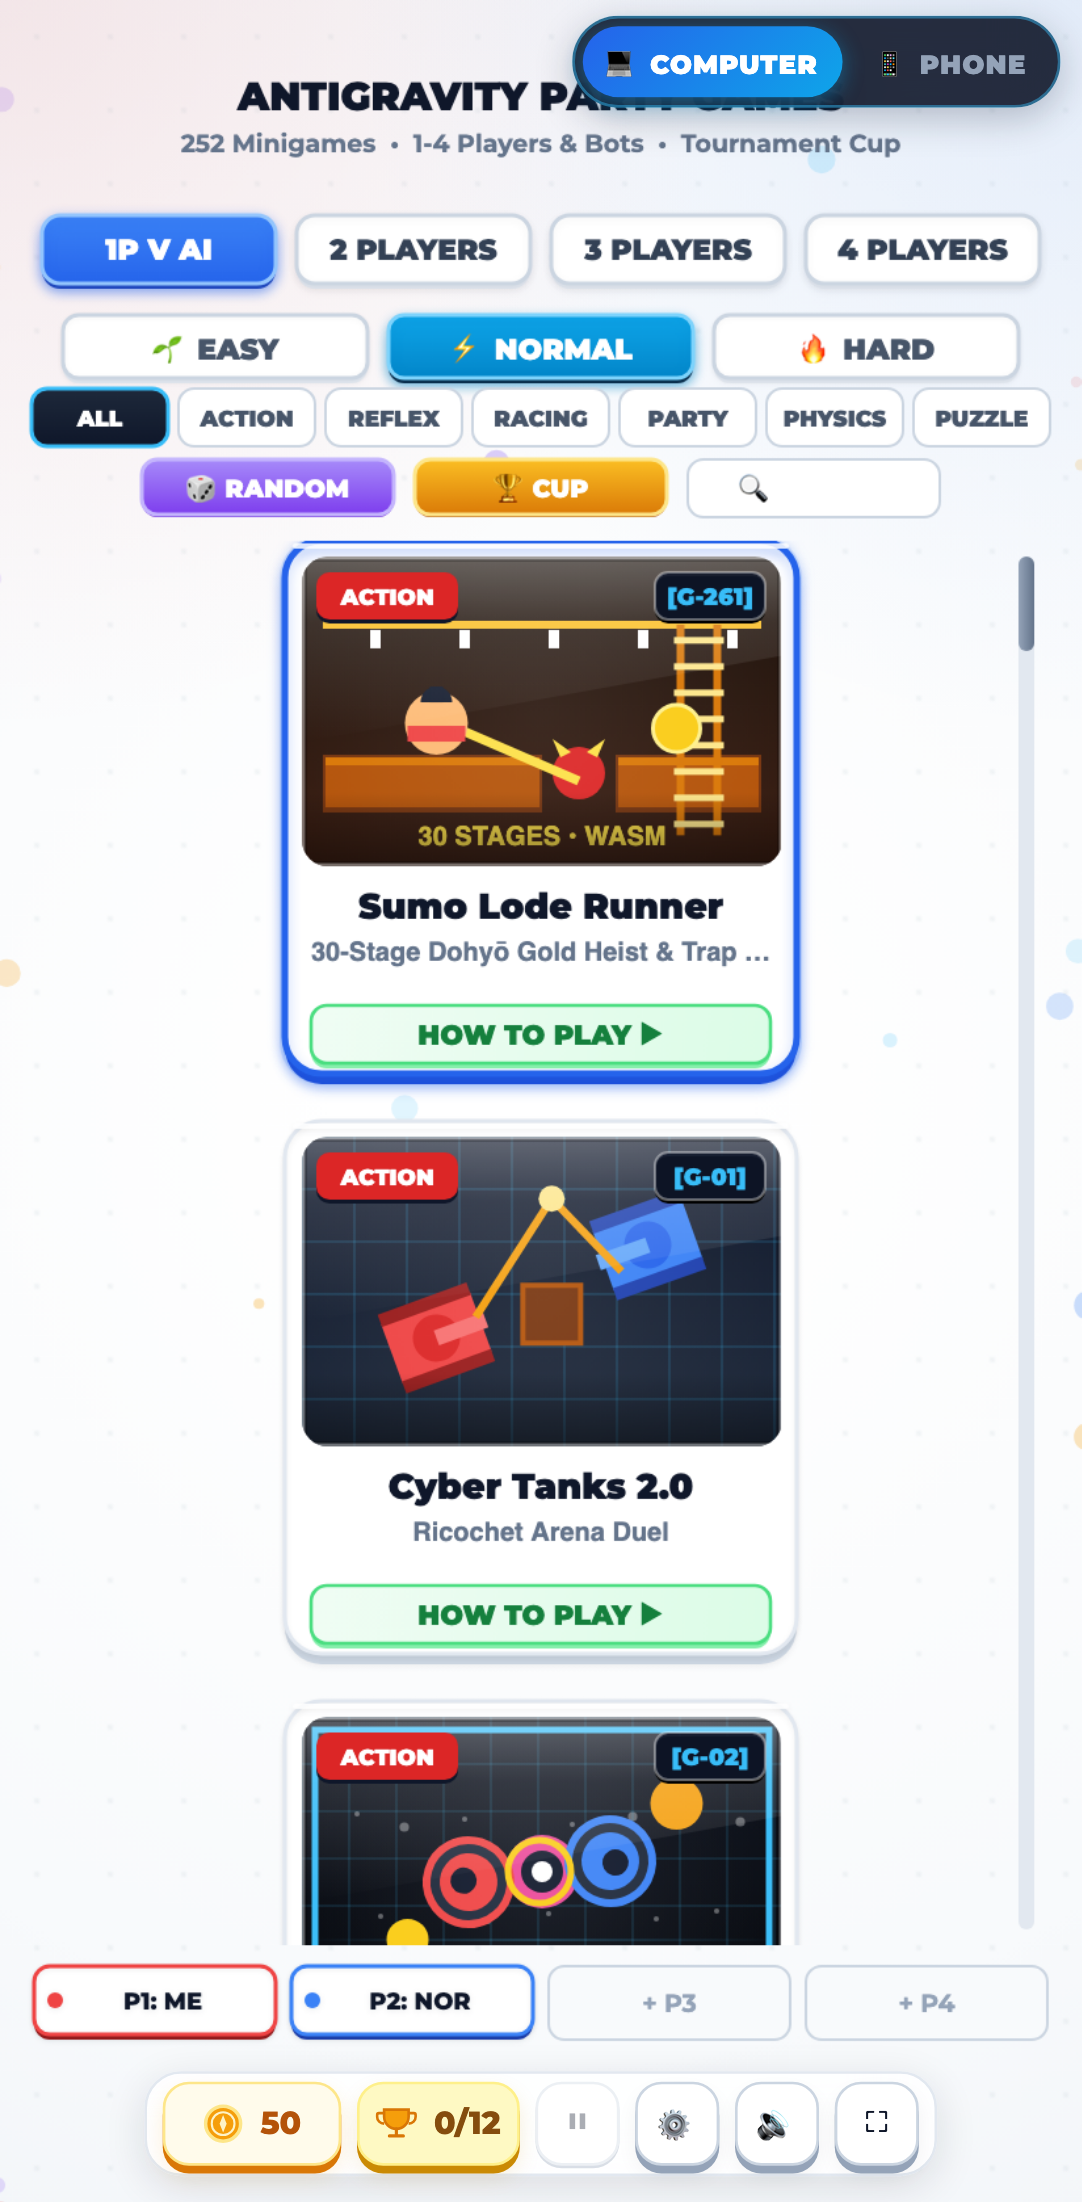
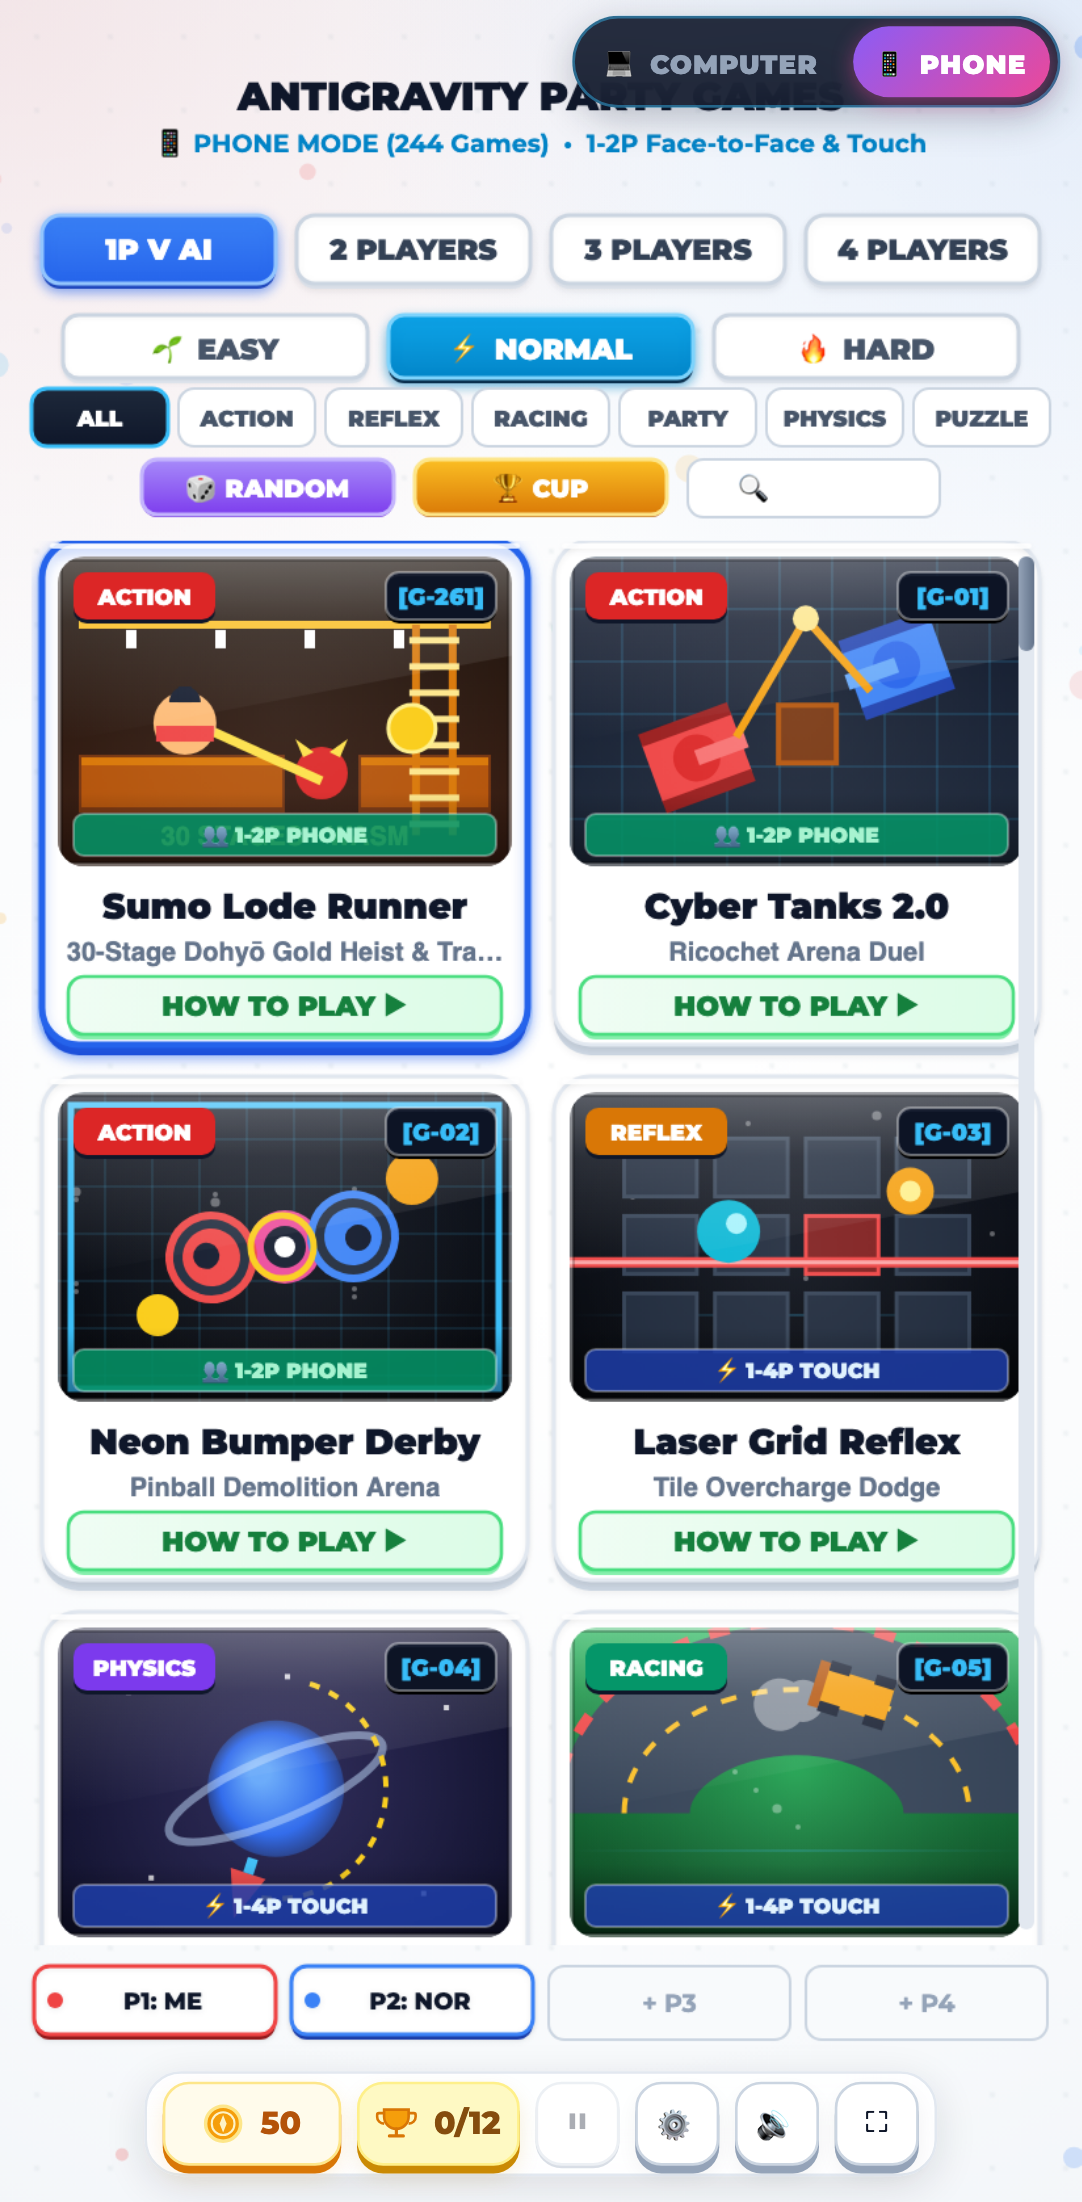
Auto-sync: updated mobile-test-artifacts/pixel7-1-lobby-initial.png,mobile-test-artifacts/pixel7-2-lobby-phone-mode.png,mobile-test-artifacts/pixel7-3-tanks-2p-ingame.png,mobile-test-artifacts/pixel7-4-sumo-2p-ingame.png,mobile-test-artifacts/pixel7-5-microgp-4p-corners.png,mobile-test-artifacts/pix

diff --git a/src/games/SumoLodeRunnerGame.ts b/src/games/SumoLodeRunnerGame.ts
@@ -296,9 +296,9 @@ export const SUMO_LODE_LEVELS: LevelBlueprint[] = [
       '####H@@@@@@@HS@@@@@@@H######',
       '....H.......H........H......',
       '....H..$....H...E..$.H......',
-      '....#######.H.########......',
+      '....#######.H.#######H......',
       '....H.......H........H......',
-      '....H..###..H...###..H......',
+      '....H#######H########H......',
       '....H..#$#..H...#$#..H......',
       '....H..#X#..H...#X#..H......',
       '..$.H.......H........H..$...',
@@ -1375,18 +1375,27 @@ const BFS_DIRS: readonly { dx: number; dy: number }[] = [
 ];
 
 export class SumoLodeRunnerGame extends BaseGame {
-  // Multi-round / 30-level campaign flags so GameManager does not cut off at 65s
+  // Multi-round / 40-level campaign flags so GameManager does not cut off at 65s
   public isMultiRound: boolean = true;
   public isNoTimeLimit: boolean = false;
 
-  // Current Level (0 = Interactive Tutorial Dojo, 1..30 = Campaign Stages)
+  // Current Level (0 = Interactive Tutorial Dojo, 1..40 = Campaign Stages)
   public currentLevel: number = 0;
   public maxUnlockedLevel: number = 1;
   public teamLives: number = 5;
+  // 1-Player Solo Puzzle Mode (when true & 1 human player is active, disables the CPU partner so you can solve puzzles stress-free)
+  public soloMode: boolean = true;
   private levelClearBannerTimer: number = 0;
   private stageHintTimer: number = 0;
   private escapeRevealed: boolean = false;
   private escapeFlashTimer: number = 0;
+
+  // Dynamic Procedural Soundtrack State (inspired by Lode Runner, Super Mario Bros. & Legend of Zelda)
+  public musicEnabled: boolean = true;
+  private bgmStepIndex: number = 0;
+  private bgmStepTimer: number = 0;
+  private bgmMood: 'normal' | 'positive' | 'negative' | 'escape' = 'normal';
+  private bgmMoodTimer: number = 0;
 
   // Dynamic Viewport Dimensions for Resize-Safe Mouse Hitboxes
   private lastWidth: number = 960;
@@ -1426,7 +1435,7 @@ export class SumoLodeRunnerGame extends BaseGame {
     timer: 0
   };
 
-  // Direct keyboard listener for dedicated Dig Left (Q/Z), Dig Right (E/X/C), and Level Select ([ / ] / T / R)
+  // Direct keyboard listener for dedicated Dig Left (Q/Z), Dig Right (E/X/C), and Level Select ([ / ] / T / R / B / M)
   private rawKeys: Set<string> = new Set();
   private justRawKeys: Set<string> = new Set();
   private keyDownHandler: ((e: KeyboardEvent) => void) | null = null;
@@ -1437,7 +1446,11 @@ export class SumoLodeRunnerGame extends BaseGame {
   private hudHitboxes: { id: string; x: number; y: number; w: number; h: number; action: () => void }[] = [];
 
   public setStartingLevel(level: number): void {
-    this.currentLevel = Math.max(0, Math.min(30, Math.floor(level)));
+    this.currentLevel = Math.max(0, Math.min(SUMO_LODE_LEVELS.length, Math.floor(level)));
+  }
+
+  public setSoloMode(solo: boolean): void {
+    this.soloMode = solo;
   }
 
   public getLevelBlueprint(levelNum: number = this.currentLevel): LevelBlueprint {
@@ -1475,7 +1488,7 @@ export class SumoLodeRunnerGame extends BaseGame {
       const saved = localStorage.getItem('antigravity_sumo_lode_unlocked');
       if (saved) {
         const parsed = parseInt(saved, 10);
-        if (!isNaN(parsed) && parsed >= 1 && parsed <= 30) {
+        if (!isNaN(parsed) && parsed >= 1 && parsed <= SUMO_LODE_LEVELS.length) {
           this.maxUnlockedLevel = parsed;
         }
       }
@@ -1534,19 +1547,15 @@ export class SumoLodeRunnerGame extends BaseGame {
     super.destroy();
   }
 
-  public reset(width: number, height: number): void {
-    this.lastWidth = width;
-    this.lastHeight = height;
-    this.initWasmKernel();
-    this.activeMutator = { ...DEFAULT_MUTATOR };
-    this.particles.clear();
-    this.isFinished = false;
-    this.roundTimer = 180;
-    this.teamLives = 5;
+  private spawnActiveRunners(): void {
     this.runners.clear();
-
     const active = this.getActivePlayers();
-    active.forEach((p) => {
+    const humanCount = active.filter((p) => p.type === 'human').length;
+    // In 1P Solo Mode (when only 1 human player is playing), filter out CPU bots so the player can solve puzzles stress-free!
+    const filtered = this.soloMode && humanCount === 1 ? active.filter((p) => p.type === 'human') : active;
+    const list = filtered.length > 0 ? filtered : active;
+
+    list.forEach((p) => {
       this.runners.set(p.id, {
         id: p.id,
         x: 10,
@@ -1568,12 +1577,23 @@ export class SumoLodeRunnerGame extends BaseGame {
         dropFromRopeCooldown: 0
       });
     });
+  }
 
+  public reset(width: number, height: number): void {
+    this.lastWidth = width;
+    this.lastHeight = height;
+    this.initWasmKernel();
+    this.activeMutator = { ...DEFAULT_MUTATOR };
+    this.particles.clear();
+    this.isFinished = false;
+    this.roundTimer = 180;
+    this.teamLives = 5;
+    this.spawnActiveRunners();
     this.loadLevel(this.currentLevel);
   }
 
   public loadLevel(levelNum: number): void {
-    this.currentLevel = Math.max(0, Math.min(30, levelNum));
+    this.currentLevel = Math.max(0, Math.min(SUMO_LODE_LEVELS.length, levelNum));
     const bp = this.getLevelBlueprint(this.currentLevel);
 
     this.gridMem.fill(TILE_EMPTY);
@@ -1589,6 +1609,8 @@ export class SumoLodeRunnerGame extends BaseGame {
     this.teamLives = 5; // Fresh 5 lives per stage (infinite in Stage 0 Tutorial)
     this.roundTimer = 180; // Fresh 3-minute timer per stage
     this.tileCacheDirty = true;
+    this.bgmMood = 'normal';
+    this.bgmMoodTimer = 0;
 
     const pSpawns: { col: number; row: number }[] = [];
     const qSpawns: { col: number; row: number }[] = [];

diff --git a/src/core/GameManager.ts b/src/core/GameManager.ts
@@ -2588,20 +2588,17 @@ export function detectInitialDeviceMode(): DevicePlatformMode {
   if (modeParam === 'phone' || modeParam === 'mobile') return 'phone';
   if (modeParam === 'computer' || modeParam === 'desktop') return 'computer';
 
-  // 2. Touch capability & pointer characteristics
-  const hasTouch = (typeof navigator !== 'undefined' && navigator.maxTouchPoints > 0) || ('ontouchstart' in window);
-  const isCoarse = typeof window.matchMedia === 'function' && window.matchMedia('(pointer: coarse)').matches;
-  const hasNoHover = typeof window.matchMedia === 'function' && window.matchMedia('(hover: none)').matches;
-
-  // 3. User-Agent mobile heuristics (Android, iPhone, iPad, iPod, etc.)
+  // 2. User-Agent mobile heuristics (covers Android, Pixel, iPhone, iPad, iPod, etc.)
   const ua = (typeof navigator !== 'undefined' && navigator.userAgent) || '';
   const isMobileUA = /Android|iPhone|iPad|iPod|Mobile|Silk|BlackBerry|Opera Mini/i.test(ua);
 
-  // 4. Viewport constraint
-  const minDim = Math.min(window.innerWidth || 1024, window.innerHeight || 768);
-  const isCompact = minDim <= 840;
+  // 3. Pointer & screen characteristics
+  const isCoarse = typeof window.matchMedia === 'function' && window.matchMedia('(pointer: coarse)').matches;
+  const isTouchScreen = (typeof navigator !== 'undefined' && navigator.maxTouchPoints > 0) || ('ontouchstart' in window);
+  const isSmallPhoneScreen = window.innerWidth <= 600 || window.innerHeight <= 600;
 
-  if (hasTouch && (isCoarse || hasNoHover || isMobileUA || isCompact)) {
+  // Real mobile phones have mobile UA or coarse touch pointer on a compact screen
+  if (isMobileUA || (isCoarse && isSmallPhoneScreen) || (isTouchScreen && isSmallPhoneScreen)) {
     return 'phone';
   }
   return 'computer';
@@ -6762,7 +6759,7 @@ export class GameManager {
         state: this.state,
         game: this.activeGame,
         roundTimer: this.activeGame?.roundTimer,
-        selectedGame: GAME_CATALOG[this.selectedGameIndex]?.id
+        selectedGame: this.activeGameId || GAME_CATALOG[this.selectedGameIndex]?.id
       };
     }
 
